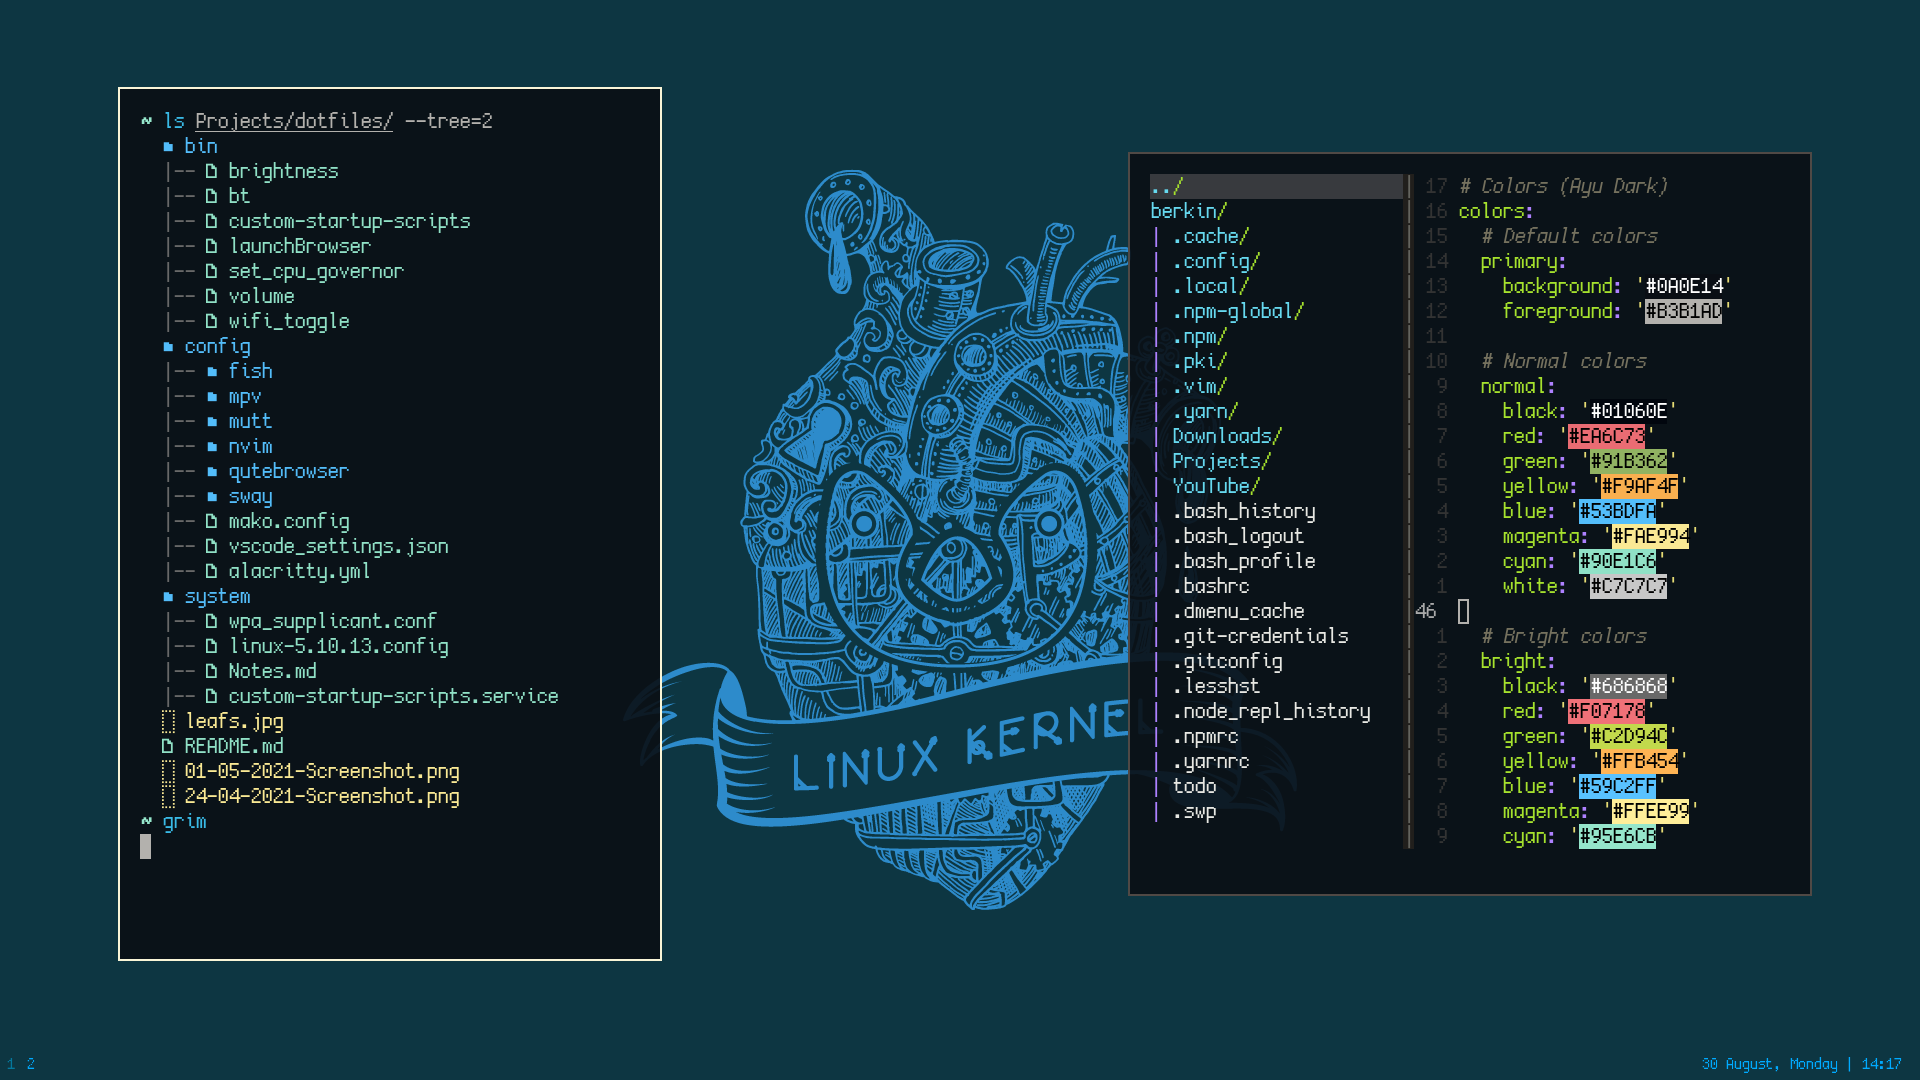
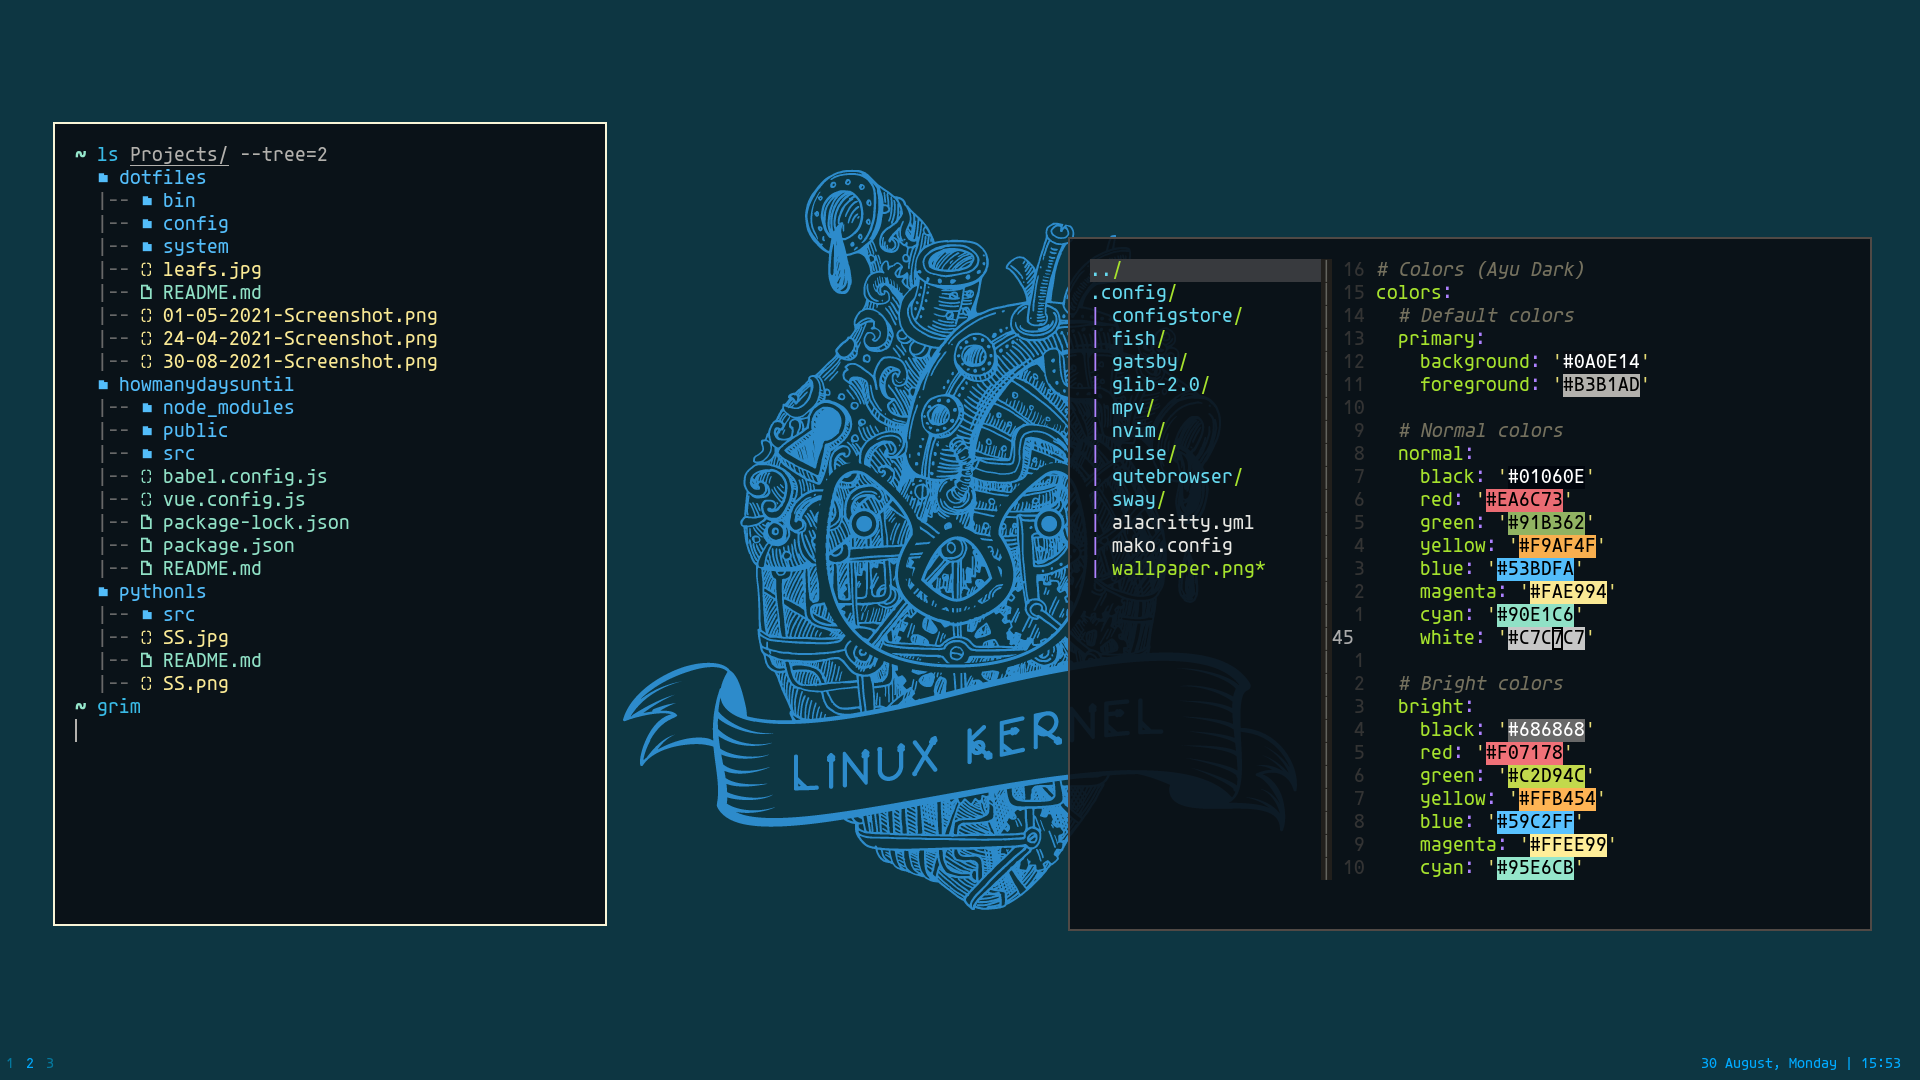
update font & wallpaper

diff --git a/config/qutebrowser/fonts.py b/config/qutebrowser/fonts.py
@@ -1,6 +1,6 @@
 def ApplyFonts(c):
     defaults = 'default_size default_family'
-    family = 'CozetteVector'
+    family = 'Agave'
 
     c.fonts.default_size = '16pt'
     c.fonts.web.size.default = 16

diff --git a/README.md b/README.md
@@ -3,7 +3,7 @@
 -   **OS:** Arch Linux
 -   **WM:** Sway (Wayland)
 -   **TERMINAL:** Alacritty
--   **FONT:** Cozette
+-   **FONT:** Agave
 -   **BROWSER:** Qutebrowser
 -   **SHELL:** Fish
 -	**EDITOR:** Neovim
